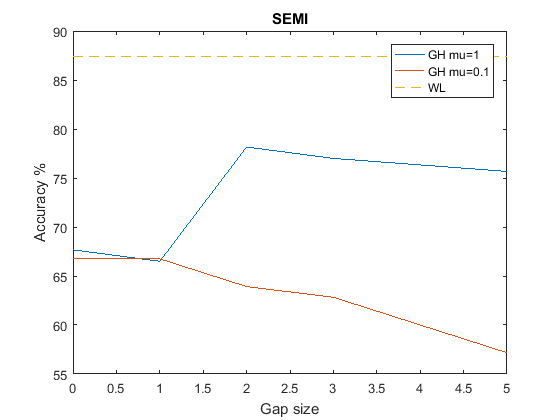
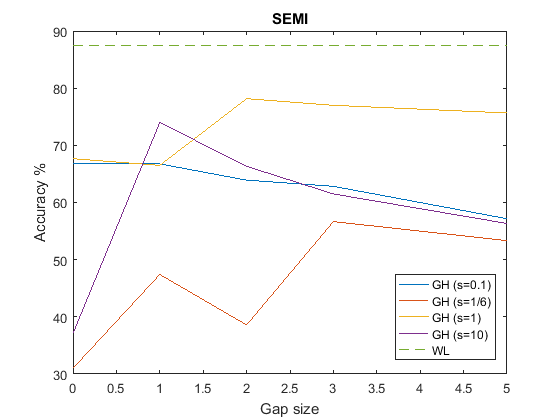
More results for SEMI

diff --git a/rapport/rapport.tex b/rapport/rapport.tex
@@ -1211,7 +1211,8 @@ WL performs slightly better than GH, but GH is within the standard deviation of 
 
 
 \paragraph{SEMI:}
-Due to the size of the graphs in SEMI we do not have time to properly cross-validate the choice of $\mu$ for the D$\times$G node kernel. Instead, we have chosen two values and compared the results. Interestingly, for $\mu=1$ we saw a significant improvement when using gaps while we saw a negative impact on performance for $\mu=0.1$ showing that the impact of gaps relies on, amongst other factors, the choice of node kernel parameters. In the end, GH was outperformed by WL.
+Due to the size of the graphs in SEMI we do not have time to properly cross-validate the choice of $\mu$ for the D$\times$G node kernel. Instead, we have chosen a number of values and compared the results.
+In three of four cases we saw a significant improvement when using gaps. The greatest change in performance was going from $s=0$ to $s=1$ with $\mu=10$ in which case the accuracy effectively \textbf{doubled} from $\sim 37\%$ to $\sim 74\%$. In the end, GH was outperformed by WL.
 \\
 \begin{minipage}{0.6\linewidth}
 	\hspace*{-1in}
@@ -1224,16 +1225,27 @@ Due to the size of the graphs in SEMI we do not have time to properly cross-vali
 	\begin{tabular}{c|c|c|c}
 		Kernel & Node kernel & Gaps & Result\\
 		\hline
-		GH & DxG ($\mu=1$) & 0 & 67.6667 (std. 2.0337)\\
-		GH & DxG ($\mu=1$) & 1 & 66.5000 (std. 2.5398)\\
-		GH & DxG ($\mu=1$) & 2 & 78.1667 (std. 1.6102)\\
-		GH & DxG ($\mu=1$) & 3 & 77.000 (std. 1.7656)\\
-		GH & DxG ($\mu=1$) & 5 & 75.6667 (std. 1.4055)\\
 		GH & DxG ($\mu=0.1$) & 0 & 66.7500 (std. 2.1677)\\
 		GH & DxG ($\mu=0.1$) & 1 & 66.7500 (std. 1.5933)\\
 		GH & DxG ($\mu=0.1$) & 2 & 63.9167 (std. 2.6367)\\
 		GH & DxG ($\mu=0.1$) & 3 & 62.8333 (std. 2.5215)\\
 		GH & DxG ($\mu=0.1$) & 5 & 57.1667 (std. 3.1963)\\
+		GH & DxG ($\mu=1/6$) & 0 & 31.0 (std. 2.6586)\\
+		GH & DxG ($\mu=1/6$) & 1 & 47.4167 (std. 2.8178)\\
+		GH & DxG ($\mu=1/6$) & 2 & 38.5833 (std. 2.4548)\\
+		GH & DxG ($\mu=1/6$) & 3 & 56.6667 (std. 3.9284)\\
+		GH & DxG ($\mu=1/6$) & 5 & 53.3333 (std. 3.6641)\\
+		GH & DxG ($\mu=1$) & 0 & 67.6667 (std. 2.0337)\\
+		GH & DxG ($\mu=1$) & 1 & 66.5000 (std. 2.5398)\\
+		GH & DxG ($\mu=1$) & 2 & 78.1667 (std. 1.6102)\\
+		GH & DxG ($\mu=1$) & 3 & 77.000 (std. 1.7656)\\
+		GH & DxG ($\mu=1$) & 5 & 75.6667 (std. 1.4055)\\
+		GH & DxG ($\mu=10$) & 0 & 37.0833 (std. 2.2309)\\
+		GH & DxG ($\mu=10$) & 1 & 74.00 (std. 3.0378)\\
+		GH & DxG ($\mu=10$) & 2 & 66.333 (std. 2.4280)\\
+		GH & DxG ($\mu=10$) & 3 & 61.50 (std. 2.7999)\\
+		GH & DxG ($\mu=10$) & 5 & 56.3333 (std. 2.0861)\\
+		
 		WL & - & - & \textbf{87.4167 (std. 1.7765)}\\
 	\end{tabular}
 	\captionof{table}{SEMI results}
@@ -1286,10 +1298,10 @@ Gap size 50: 69.7833 (std. 1.4825)
 \subsubsection{Discussion}
 On graphs with discrete node labels WL generally outperforms GH (Enzymes, NCI1, NCI109, Collab unlabelled, IMDB). GH is, however, designed to take advantage of continuous node labels and on graphs with this property GH often gets the best result (Enzymes symmetrized, Airways subsampled) even when the continuous labels just represent the node degree (Collab labelled). On SEMI WL did get the best accuracy compared to GH despite the nodes having continuous vector labels but this may change when testing more choices of $\mu$.
 
-We did not see a consistent improvement in accuracy when adding gaps to GH. In most cases we saw no meaningful improvement or some decrease in performance. Gaps seemed to have a negative impact on data based on chemical compounds while it did better on the social media data. The airways data scanned from images gave inconclusive results so further testing on data based on images would be interesting. The most promising result was achieved on the 3D data in SEMI where adding gaps had a massive positive impact ($>10\%$) for a specific choice of $\mu$. However, actually computing the best result with GH would require cross-validating $\mu$ and $s$ together and at this time we can not say whether the best combination of these parameters includes a positive value of $s$.
+We did not see a consistent improvement in accuracy when adding gaps to GH. In most cases we saw no meaningful improvement or some decrease in performance. Gaps seemed to have a negative impact on data based on chemical compounds while it did better on the social media data. The airways data scanned from images gave inconclusive results so further testing on data based on images would be interesting. The most promising results were achieved on the 3D data in SEMI where adding gaps had a massive positive impact for most choices of $\mu$. However, actually computing the best result with GH would require cross-validating $\mu$ and $s$ together and at this time we can not say whether the best combination of these parameters includes a positive value of $s$.
 
 \section{Conclusion}
-We have managed to implement the GraphHopper kernel in C++ and consistently achieve superior running times compared to the existing MATLAB-implementation. We have also implemented gappy paths and experimented with the impact on model accuracy when allowing gaps in graph classification. The results of the latter were inconclusive in that the impact was minimal or negative across most datasets but massively positive in one of our tests. In said test we did not, however, cross-validate the choice of a node kernel parameter ($\mu$) due to sheer size. Before concluding that adding gaps has a meaningful, positive impact on this data we need to cross-validate $\mu$ as well as the gap size $s$ and verify that the best result arises from a positive $s$ parameter and that this result is substantially better than any result achieved with $s=0$. In conclusion we believe that more time should be invested in researching the effect of gaps on graph classification.
+We have managed to implement the GraphHopper kernel in C++ and consistently achieve superior running times compared to the existing MATLAB-implementation. We have also implemented gappy paths and experimented with the impact on model accuracy when allowing gaps in graph classification. The results of the latter were inconclusive in that the impact was minimal or negative across most datasets but massively positive in one of our tests. In said test we did not, however, cross-validate the choice of a node kernel parameter ($\mu$) due to sheer size. Before concluding that adding gaps has a meaningful, positive impact on this data we need to cross-validate $\mu$ as well as the gap size $s$ and verify that the best result arises from a positive $s$ parameter and that this result is substantially better than any result achieved with $s=0$. In conclusion, we believe that more time should be invested in researching the effect of gaps on graph classification.
 
 
 \newpage
